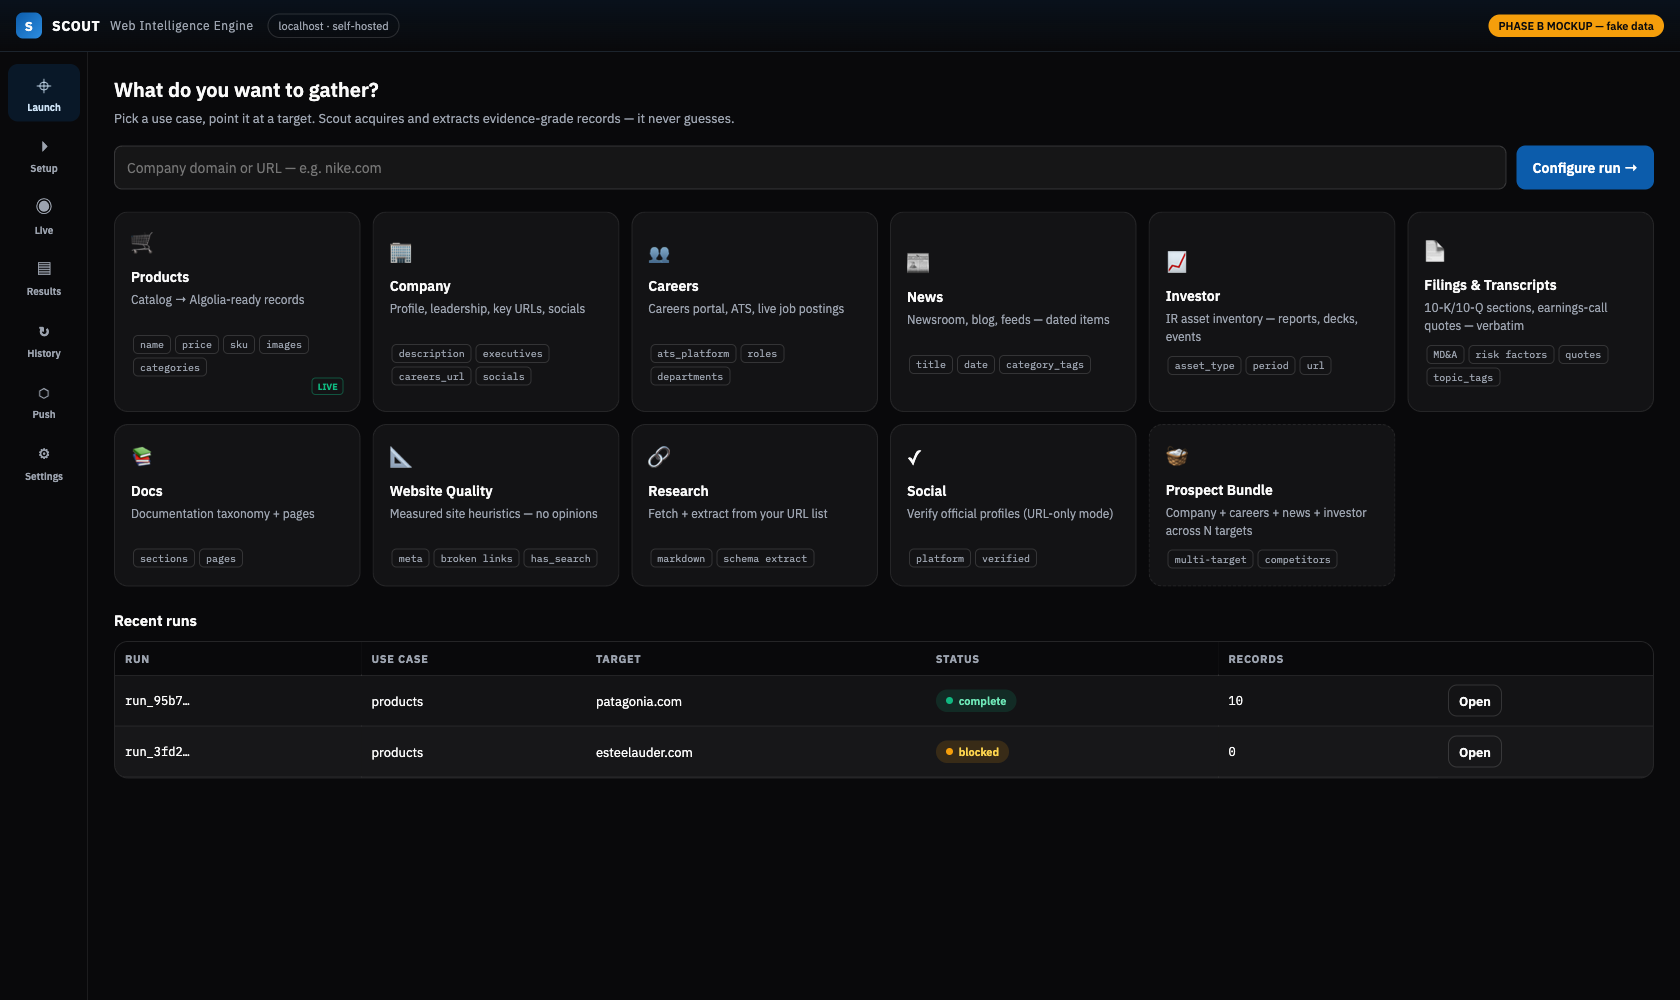
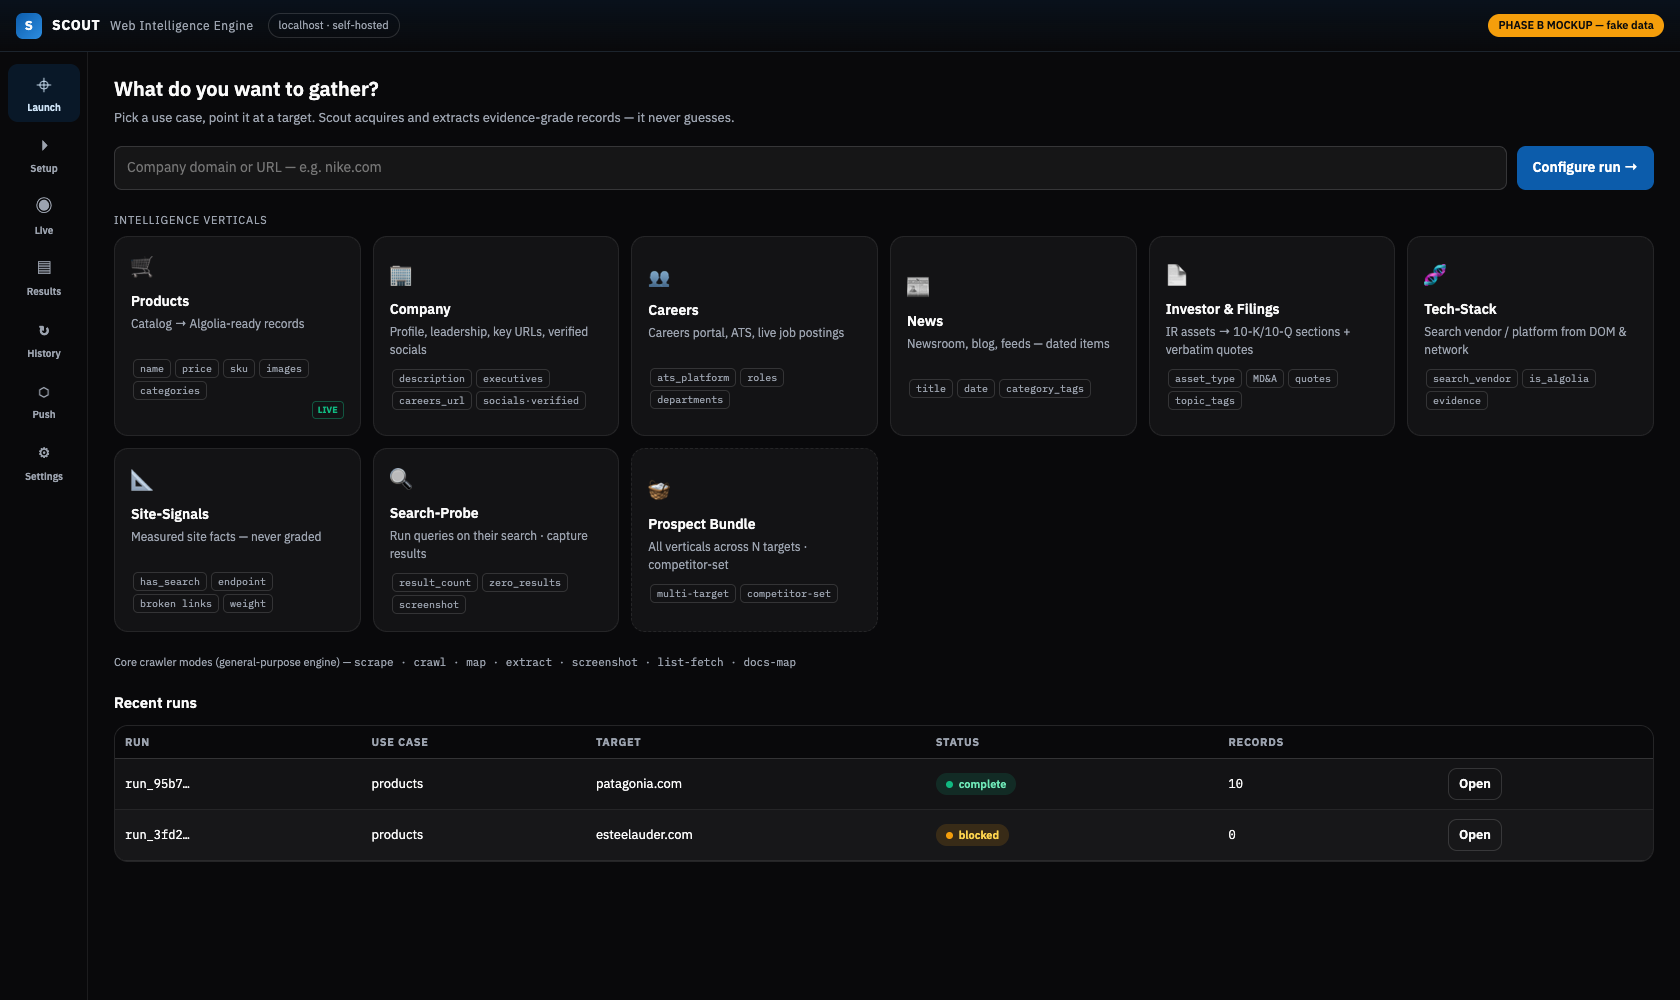
docs(design): update mockup launcher to final use-case set
Launcher now shows the 8 Intelligence verticals (products, company w/
verified socials, careers, news, investor & filings, tech-stack,
site-signals, search-probe) + prospect bundle with competitor-set, and
surfaces the Core crawler modes as a secondary line per the ICP ADR.
Drops the demoted/folded cards (docs, research, standalone social,
separate filings, website-quality).

diff --git a/docs/design/scout-redesign/mockup.html b/docs/design/scout-redesign/mockup.html
@@ -155,19 +155,19 @@ details.acc summary{cursor:pointer;font-weight:600;font-size:13px}
         <input aria-label="Target" placeholder="Company domain or URL — e.g. nike.com" value="">
         <button class="btn btn-p" data-v="setup">Configure run →</button>
       </div>
+      <div style="font-size:11px;letter-spacing:.08em;text-transform:uppercase;color:var(--muted);margin:0 0 8px">Intelligence verticals</div>
       <div class="cards">
         <button class="uc glass live-tag" data-v="setup"><span class="glyph">🛒</span><span class="nm">Products</span><span class="ds">Catalog → Algolia-ready records</span><div class="fields"><span class="tagchip">name</span><span class="tagchip">price</span><span class="tagchip">sku</span><span class="tagchip">images</span><span class="tagchip">categories</span></div></button>
-        <button class="uc glass" data-v="setup"><span class="glyph">🏢</span><span class="nm">Company</span><span class="ds">Profile, leadership, key URLs, socials</span><div class="fields"><span class="tagchip">description</span><span class="tagchip">executives</span><span class="tagchip">careers_url</span><span class="tagchip">socials</span></div></button>
+        <button class="uc glass" data-v="setup"><span class="glyph">🏢</span><span class="nm">Company</span><span class="ds">Profile, leadership, key URLs, verified socials</span><div class="fields"><span class="tagchip">description</span><span class="tagchip">executives</span><span class="tagchip">careers_url</span><span class="tagchip">socials·verified</span></div></button>
         <button class="uc glass" data-v="setup"><span class="glyph">👥</span><span class="nm">Careers</span><span class="ds">Careers portal, ATS, live job postings</span><div class="fields"><span class="tagchip">ats_platform</span><span class="tagchip">roles</span><span class="tagchip">departments</span></div></button>
         <button class="uc glass" data-v="setup"><span class="glyph">📰</span><span class="nm">News</span><span class="ds">Newsroom, blog, feeds — dated items</span><div class="fields"><span class="tagchip">title</span><span class="tagchip">date</span><span class="tagchip">category_tags</span></div></button>
-        <button class="uc glass" data-v="setup"><span class="glyph">📈</span><span class="nm">Investor</span><span class="ds">IR asset inventory — reports, decks, events</span><div class="fields"><span class="tagchip">asset_type</span><span class="tagchip">period</span><span class="tagchip">url</span></div></button>
-        <button class="uc glass" data-v="setup"><span class="glyph">📄</span><span class="nm">Filings &amp; Transcripts</span><span class="ds">10-K/10-Q sections, earnings-call quotes — verbatim</span><div class="fields"><span class="tagchip">MD&amp;A</span><span class="tagchip">risk factors</span><span class="tagchip">quotes</span><span class="tagchip">topic_tags</span></div></button>
-        <button class="uc glass" data-v="setup"><span class="glyph">📚</span><span class="nm">Docs</span><span class="ds">Documentation taxonomy + pages</span><div class="fields"><span class="tagchip">sections</span><span class="tagchip">pages</span></div></button>
-        <button class="uc glass" data-v="setup"><span class="glyph">📐</span><span class="nm">Website Quality</span><span class="ds">Measured site heuristics — no opinions</span><div class="fields"><span class="tagchip">meta</span><span class="tagchip">broken links</span><span class="tagchip">has_search</span></div></button>
-        <button class="uc glass" data-v="setup"><span class="glyph">🔗</span><span class="nm">Research</span><span class="ds">Fetch + extract from your URL list</span><div class="fields"><span class="tagchip">markdown</span><span class="tagchip">schema extract</span></div></button>
-        <button class="uc glass" data-v="setup"><span class="glyph">✓</span><span class="nm">Social</span><span class="ds">Verify official profiles (URL-only mode)</span><div class="fields"><span class="tagchip">platform</span><span class="tagchip">verified</span></div></button>
-        <button class="uc glass" data-v="setup" style="border-style:dashed"><span class="glyph">🧺</span><span class="nm">Prospect Bundle</span><span class="ds">Company + careers + news + investor across N targets</span><div class="fields"><span class="tagchip">multi-target</span><span class="tagchip">competitors</span></div></button>
+        <button class="uc glass" data-v="setup"><span class="glyph">📄</span><span class="nm">Investor &amp; Filings</span><span class="ds">IR assets → 10-K/10-Q sections + verbatim quotes</span><div class="fields"><span class="tagchip">asset_type</span><span class="tagchip">MD&amp;A</span><span class="tagchip">quotes</span><span class="tagchip">topic_tags</span></div></button>
+        <button class="uc glass" data-v="setup"><span class="glyph">🧬</span><span class="nm">Tech-Stack</span><span class="ds">Search vendor / platform from DOM &amp; network</span><div class="fields"><span class="tagchip">search_vendor</span><span class="tagchip">is_algolia</span><span class="tagchip">evidence</span></div></button>
+        <button class="uc glass" data-v="setup"><span class="glyph">📐</span><span class="nm">Site-Signals</span><span class="ds">Measured site facts — never graded</span><div class="fields"><span class="tagchip">has_search</span><span class="tagchip">endpoint</span><span class="tagchip">broken links</span><span class="tagchip">weight</span></div></button>
+        <button class="uc glass" data-v="setup"><span class="glyph">🔍</span><span class="nm">Search-Probe</span><span class="ds">Run queries on their search · capture results</span><div class="fields"><span class="tagchip">result_count</span><span class="tagchip">zero_results</span><span class="tagchip">screenshot</span></div></button>
+        <button class="uc glass" data-v="setup" style="border-style:dashed"><span class="glyph">🧺</span><span class="nm">Prospect Bundle</span><span class="ds">All verticals across N targets · competitor-set</span><div class="fields"><span class="tagchip">multi-target</span><span class="tagchip">competitor-set</span></div></button>
       </div>
+      <div style="font-size:11px;color:var(--muted);margin:2px 0 22px">Core crawler modes (general-purpose engine) — <span class="mono" style="font-size:11px">scrape · crawl · map · extract · screenshot · list-fetch · docs-map</span></div>
       <h2>Recent runs</h2>
       <div class="glass" style="overflow:hidden">
         <table aria-label="Recent runs"><thead><tr><th>Run</th><th>Use case</th><th>Target</th><th>Status</th><th>Records</th><th></th></tr></thead>